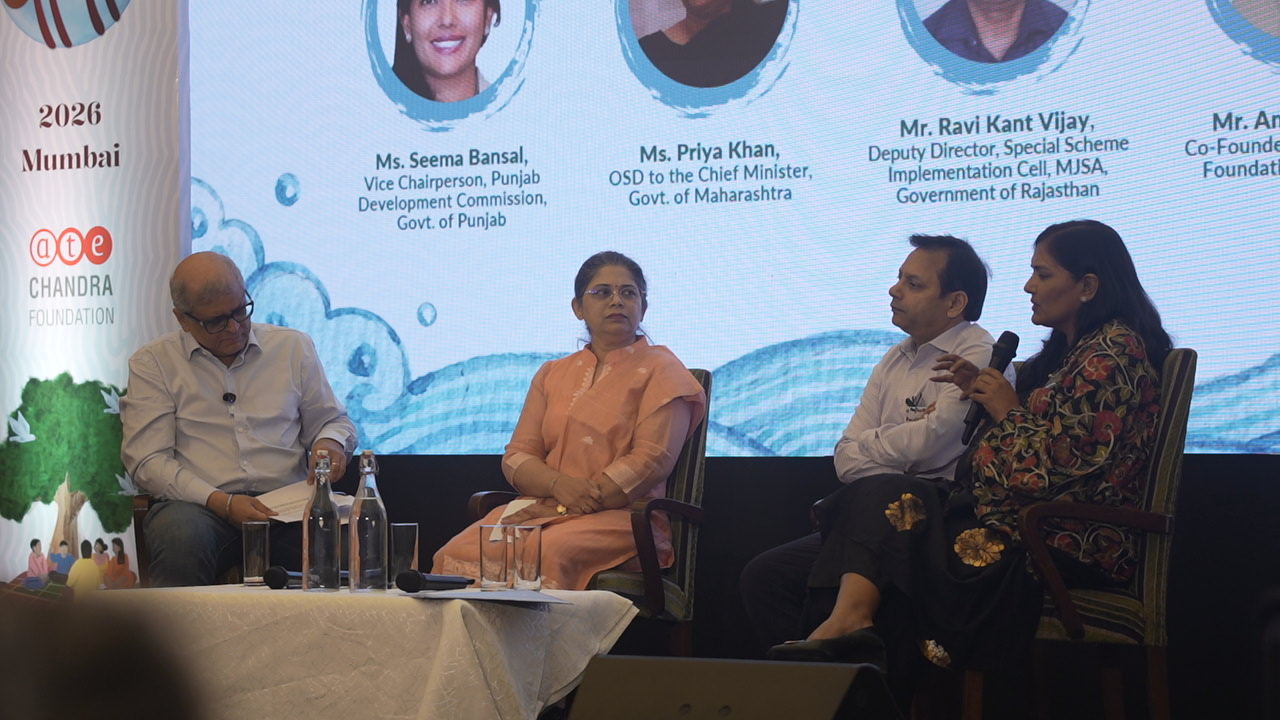
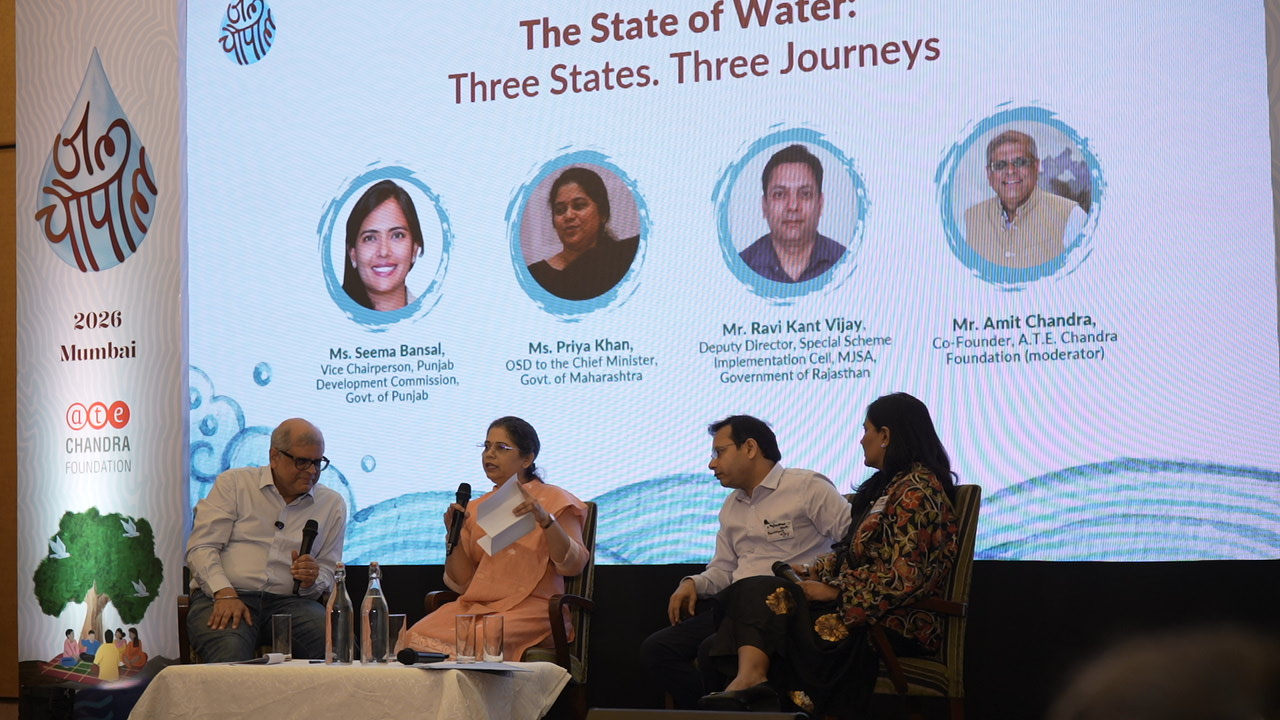
Jal Chaupal blog: link ATECF, replace panel photo

diff --git a/src/pages/blog/2026-10-01-jal-chaupal-2026.md b/src/pages/blog/2026-10-01-jal-chaupal-2026.md
@@ -16,7 +16,7 @@ tags:
 
 Water is something we use every day, often without thinking much about it. But there is so much more to water than what we see in our everyday lives. Its connection to agriculture, livelihoods, and entire communities is something I came to understand much better through my experience at Jal Chaupal 2026.
 
-A.T.E. Chandra Foundation (ATECF), through its Rejuvenation of Water Bodies (RWB) initiative, is working with government departments and NGO partners across different states to restore water bodies, improve water availability, and support farming communities. The initiative focuses on removing accumulated silt from water bodies to improve their storage capacity, while helping farmers use the excavated silt to improve their agricultural land.
+[A.T.E. Chandra Foundation (ATECF)](https://www.atecf.org/), through its Rejuvenation of Water Bodies (RWB) initiative, is working with government departments and NGO partners across different states to restore water bodies, improve water availability, and support farming communities. The initiative focuses on removing accumulated silt from water bodies to improve their storage capacity, while helping farmers use the excavated silt to improve their agricultural land.
 
 At Samanvay Foundation, we have been working with ATECF through Avni, an open-source platform for programme data management, monitoring, and decision-making.
 
